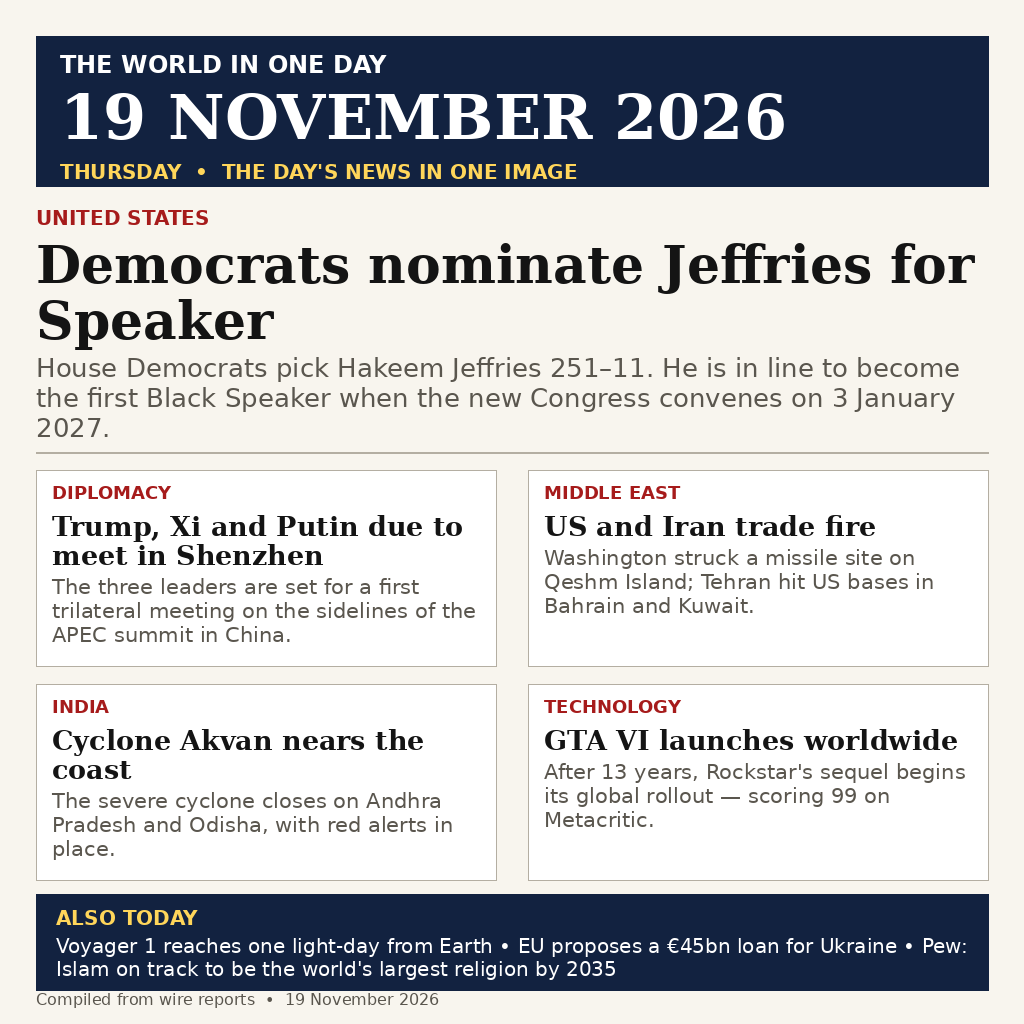
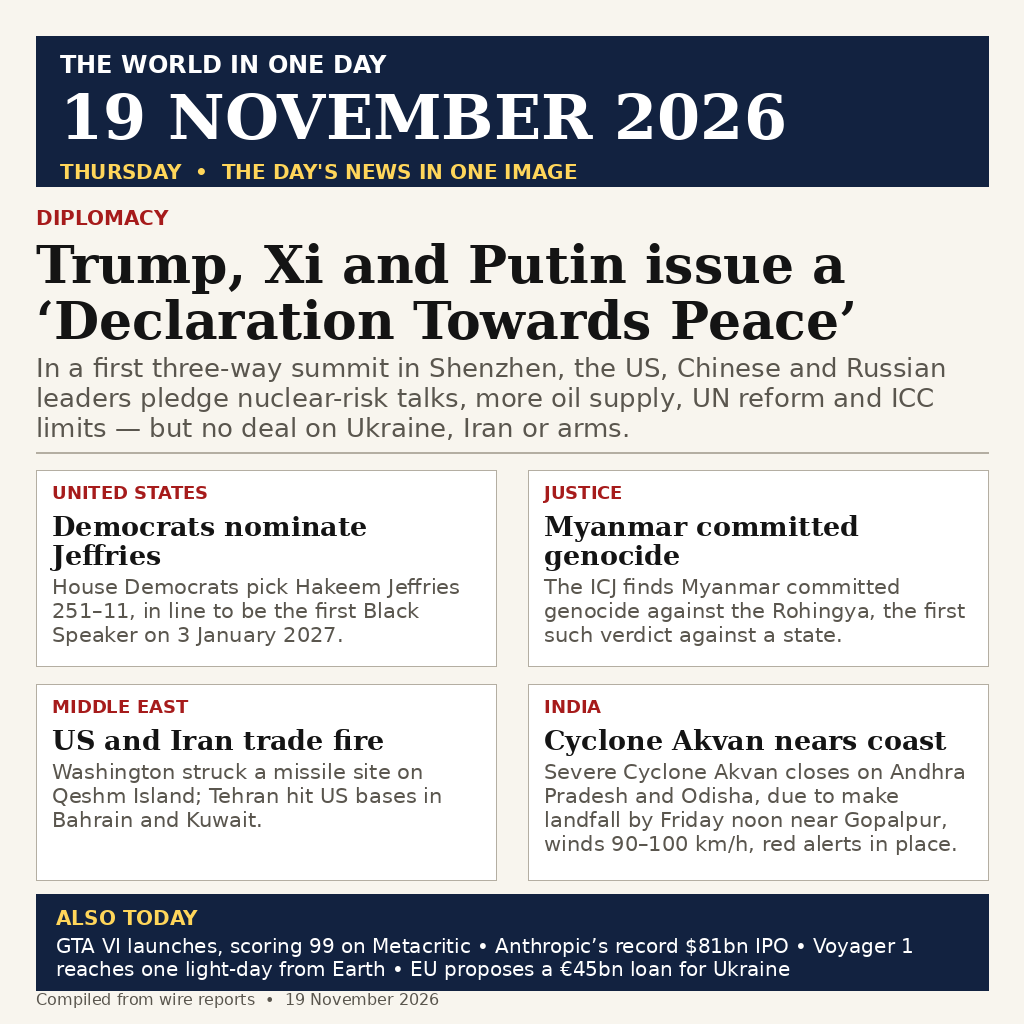
Add files via upload

diff --git a/draw.py b/draw.py
@@ -1,8 +1,10 @@
 #!/usr/bin/env python3
 """Draw entry.png: a one-page newspaper front page summing up 19 Nov 2026.
 
-v1: built from the stories verified on the morning of 19 Nov 2026 (UTC).
-Regenerate after the day ends with the final story list before submitting.
+v2: final story list, researched after the day ended (20 Nov 2026, UTC).
+Lead is the first-ever Trump-Xi-Putin trilateral in Shenzhen and its
+Declaration Towards Peace; the grid adds the ICJ's Myanmar genocide ruling.
+Card headlines are kept to one line so the body fits the 196px card.
 """
 from PIL import Image, ImageDraw, ImageFont
 
@@ -50,33 +52,37 @@ M = 36  # margin
 d.rectangle([M, M, W - M, 186], fill=NAVY)
 d.text((M + 24, M + 14), "THE WORLD IN ONE DAY", font=font(SANS_B, 24), fill=(255, 255, 255))
 d.text((M + 24, M + 44), "19 NOVEMBER 2026", font=font(SERIF_B, 62), fill=(255, 255, 255))
-d.text((M + 24, M + 124), "THURSDAY  •  THE DAY'S NEWS IN ONE IMAGE",
+d.text((M + 24, M + 124), "THURSDAY  \u2022  THE DAY'S NEWS IN ONE IMAGE",
        font=font(SANS_B, 20), fill=(255, 214, 90))
 
 # ---- lead story ----
 y = 206
-d.text((M, y), "UNITED STATES", font=font(SANS_B, 20), fill=RED)
+d.text((M, y), "DIPLOMACY", font=font(SANS_B, 20), fill=RED)
 y += 28
-y = draw_wrapped(d, (M, y), "Democrats nominate Jeffries for Speaker",
+y = draw_wrapped(d, (M, y), "Trump, Xi and Putin issue a \u2018Declaration Towards Peace\u2019",
                  font(SERIF_B, 52), W - 2 * M, INK, spacing=4)
 y += 6
 y = draw_wrapped(d, (M, y),
-                 "House Democrats pick Hakeem Jeffries 251\u201311. He is in line to become the "
-                 "first Black Speaker when the new Congress convenes on 3 January 2027.",
+                 "In a first three-way summit in Shenzhen, the US, Chinese and Russian "
+                 "leaders pledge nuclear-risk talks, more oil supply, UN reform and ICC "
+                 "limits \u2014 but no deal on Ukraine, Iran or arms.",
                  font(SANS, 26), W - 2 * M, MUTED, spacing=4)
 y += 10
 d.line([M, y, W - M, y], fill=RULE, width=2)
 
 # ---- 2x2 grid ----
 stories = [
-    ("DIPLOMACY", "Trump, Xi and Putin due to meet in Shenzhen",
-     "The three leaders are set for a first trilateral meeting on the sidelines of the APEC summit in China."),
+    ("UNITED STATES", "Democrats nominate Jeffries",
+     "House Democrats pick Hakeem Jeffries 251\u201311, in line to be the first "
+     "Black Speaker on 3 January 2027."),
+    ("JUSTICE", "Myanmar committed genocide",
+     "The ICJ finds Myanmar committed genocide against the Rohingya, the first "
+     "such verdict against a state."),
     ("MIDDLE EAST", "US and Iran trade fire",
      "Washington struck a missile site on Qeshm Island; Tehran hit US bases in Bahrain and Kuwait."),
-    ("INDIA", "Cyclone Akvan nears the coast",
-     "The severe cyclone closes on Andhra Pradesh and Odisha, with red alerts in place."),
-    ("TECHNOLOGY", "GTA VI launches worldwide",
-     "After 13 years, Rockstar's sequel begins its global rollout \u2014 scoring 99 on Metacritic."),
+    ("INDIA", "Cyclone Akvan nears coast",
+     "Severe Cyclone Akvan closes on Andhra Pradesh and Odisha, due to make "
+     "landfall by Friday noon near Gopalpur, winds 90\u2013100 km/h, red alerts in place."),
 ]
 gx, gy = M, y + 18
 cw, ch, gap = 460, 196, 32
@@ -93,8 +99,8 @@ fy = gy + 2 * ch + 18 + 14
 d.rectangle([M, fy, W - M, fy + 96], fill=NAVY)
 d.text((M + 20, fy + 12), "ALSO TODAY", font=font(SANS_B, 20), fill=(255, 214, 90))
 draw_wrapped(d, (M + 20, fy + 40),
-             "Voyager 1 reaches one light-day from Earth  \u2022  EU proposes a \u20ac45bn loan "
-             "for Ukraine  \u2022  Pew: Islam on track to be the world's largest religion by 2035",
+             "GTA VI launches, scoring 99 on Metacritic  \u2022  Anthropic\u2019s record $81bn IPO  "
+             "\u2022  Voyager 1 reaches one light-day from Earth  \u2022  EU proposes a \u20ac45bn loan for Ukraine",
              font(SANS, 20), W - 2 * M - 40, (255, 255, 255), spacing=3)
 
 d.text((M, H - 34), "Compiled from wire reports  \u2022  19 November 2026",
